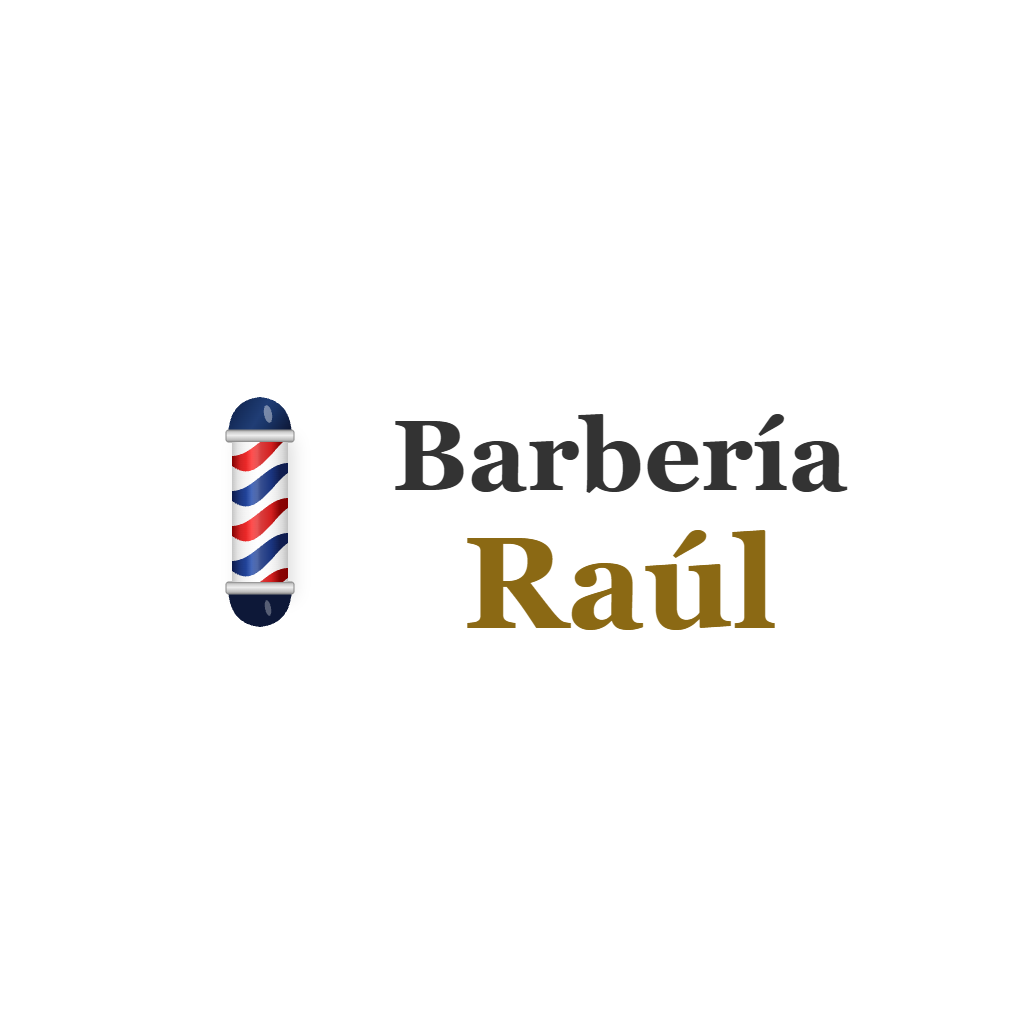
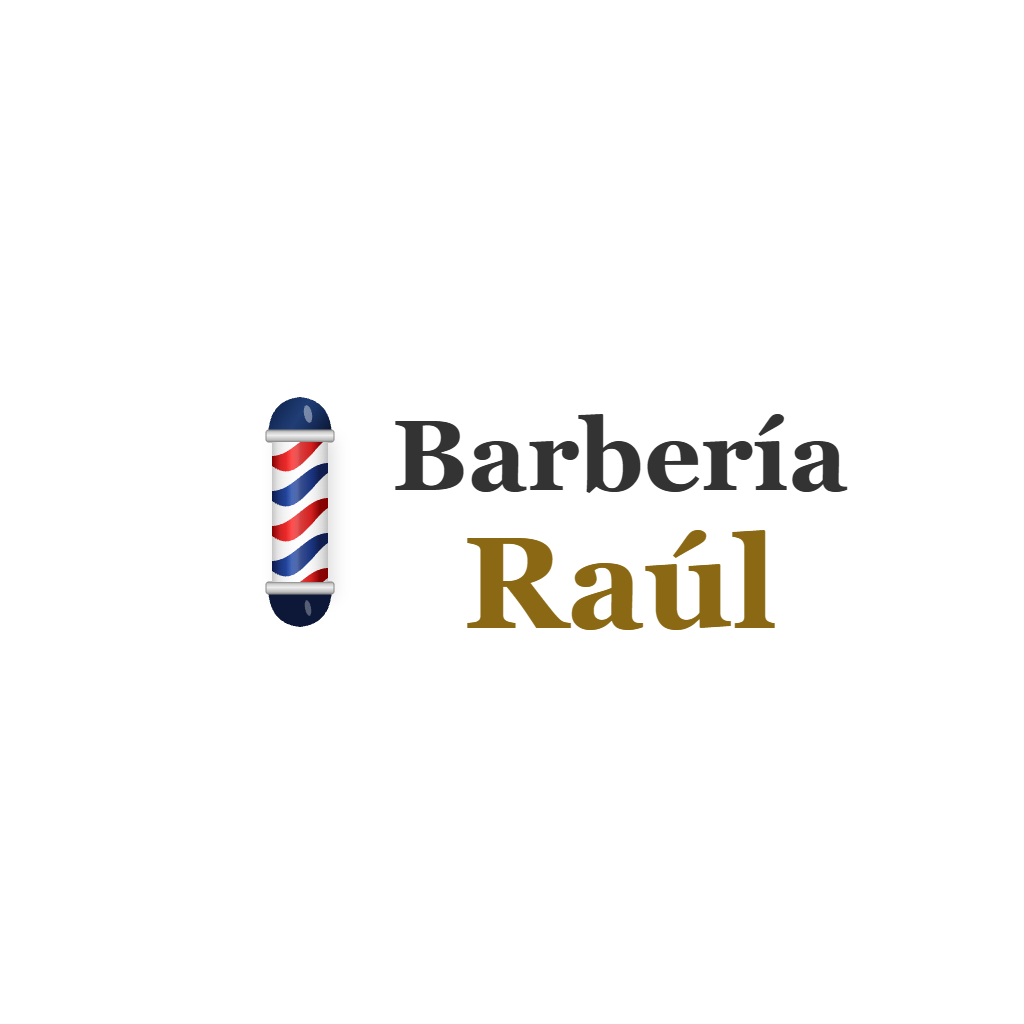
Cajas sen sombra, icono centrado, notificacións push unificadas, recordatorio 1 día antes
- Cajas de estatísticas sen elevation/sombra (non parecen botóns)
- Icono da app máis centrado
- Notificacións push: función xenérica enviarPushAoCliente para cancelación, cita extra, reasignación
- Recordatorio 7 días e 1 día antes da cita
- URL de Apps Script actualizada

Changed region(s): [[0.2188, 0.375, 0.3438, 0.625]]

diff --git a/src/constantes/configuracion.ts b/src/constantes/configuracion.ts
@@ -2,7 +2,7 @@
 
 // URL do Google Apps Script despregado como web app
 // IMPORTANTE: Substituir coa URL real despois de despregar o script
-export const APPS_SCRIPT_URL = 'https://script.google.com/macros/s/AKfycbx0qEiQqdmYyefZTWwWxfVGwoQ7tjBZurICAd8eed4KQ24M-6BCqJtecoPkDKvxDOR31g/exec';
+export const APPS_SCRIPT_URL = 'https://script.google.com/macros/s/AKfycbzhVxFBmH582xywh-vm0OJgOJzebnAirdXGYeBBxsRXS-d8K31adGdCFPpgPTzv99Xv/exec';
 
 // Configuracion de Firebase
 // IMPORTANTE: Substituir cos datos reais do proxecto Firebase

diff --git a/admin/index.html b/admin/index.html
@@ -1070,7 +1070,7 @@
   </div>
 
   <input type="hidden" id="urlApi"
-    value="https://script.google.com/macros/s/AKfycbx0qEiQqdmYyefZTWwWxfVGwoQ7tjBZurICAd8eed4KQ24M-6BCqJtecoPkDKvxDOR31g/exec">
+    value="https://script.google.com/macros/s/AKfycbzhVxFBmH582xywh-vm0OJgOJzebnAirdXGYeBBxsRXS-d8K31adGdCFPpgPTzv99Xv/exec">
   <div id="puntoEstado" style="display:none;"></div>
   <span id="textoEstado" style="display:none;"></span>
 

diff --git a/src/pantallas/MisCitasScreen.tsx b/src/pantallas/MisCitasScreen.tsx
@@ -666,11 +666,6 @@ const estilos = StyleSheet.create({
     backgroundColor: COLORES_DISENO.blanco,
     borderRadius: 12,
     overflow: 'hidden',
-    elevation: 1,
-    shadowColor: '#000',
-    shadowOffset: { width: 0, height: 1 },
-    shadowOpacity: 0.06,
-    shadowRadius: 3,
   },
   contenidoEstadistica: {
     flex: 1,

diff --git a/icon-generator.html b/icon-generator.html
@@ -47,7 +47,7 @@ ctx.fillStyle = '#FFFFFF';
 ctx.fillRect(0, 0, W, W);
 
 // Layout: palo a la izquierda, texto a la derecha centrado verticalmente
-const poleCx = 260;
+const poleCx = 300;
 const textCx = 620;
 const centerY = W / 2;
 
